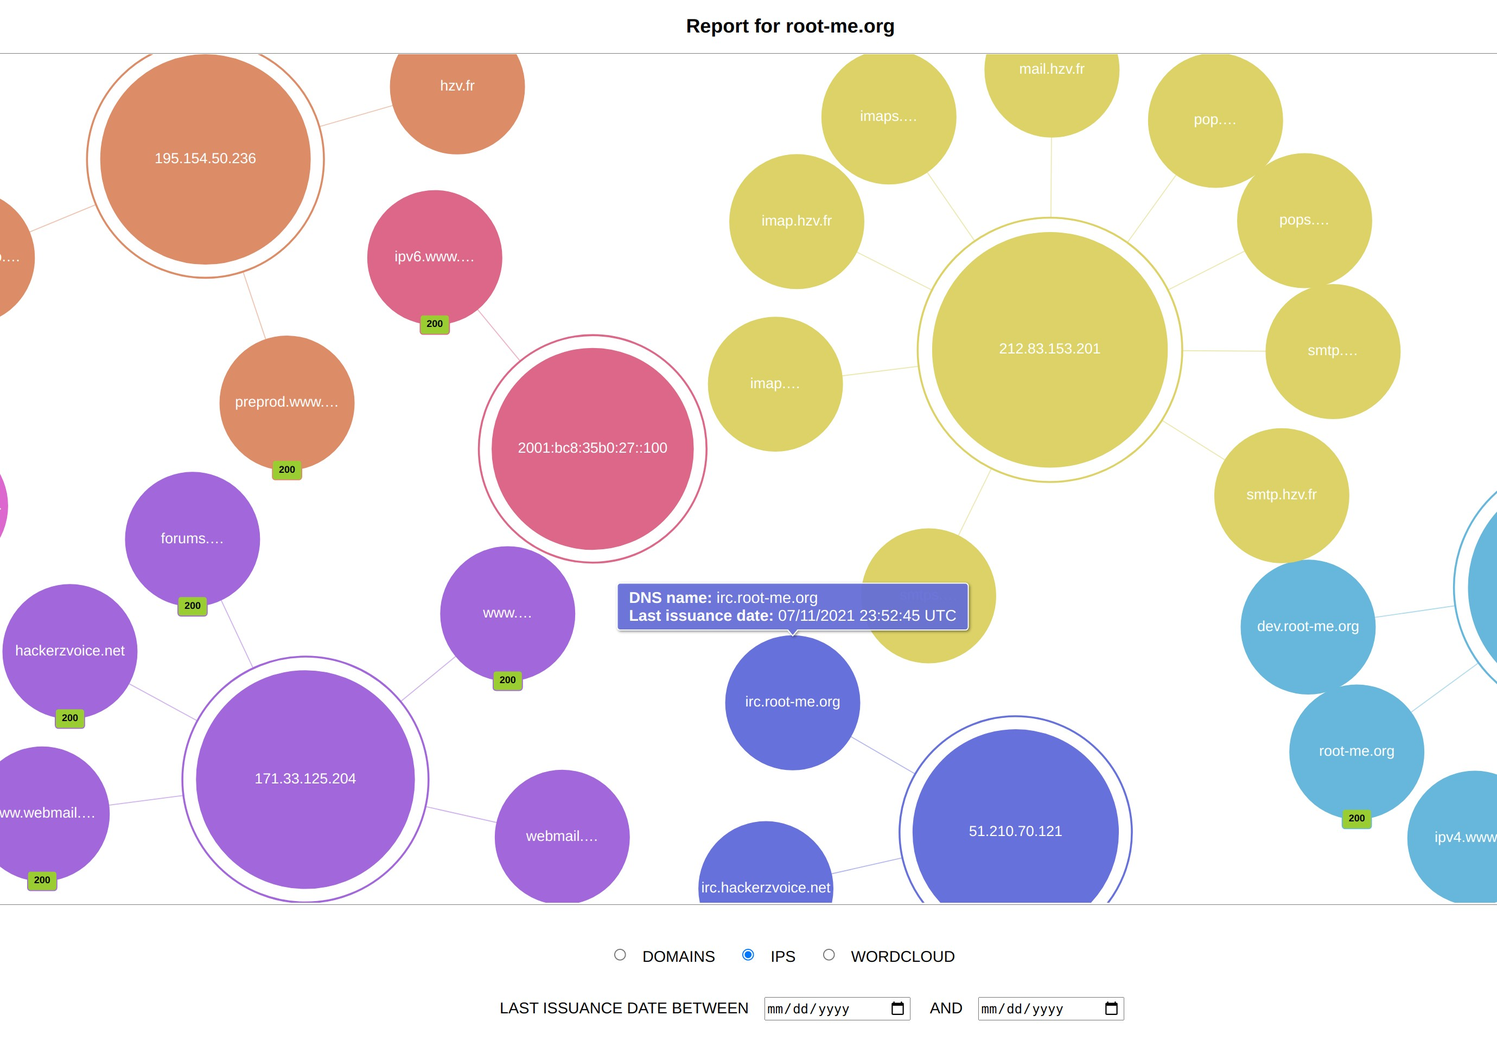
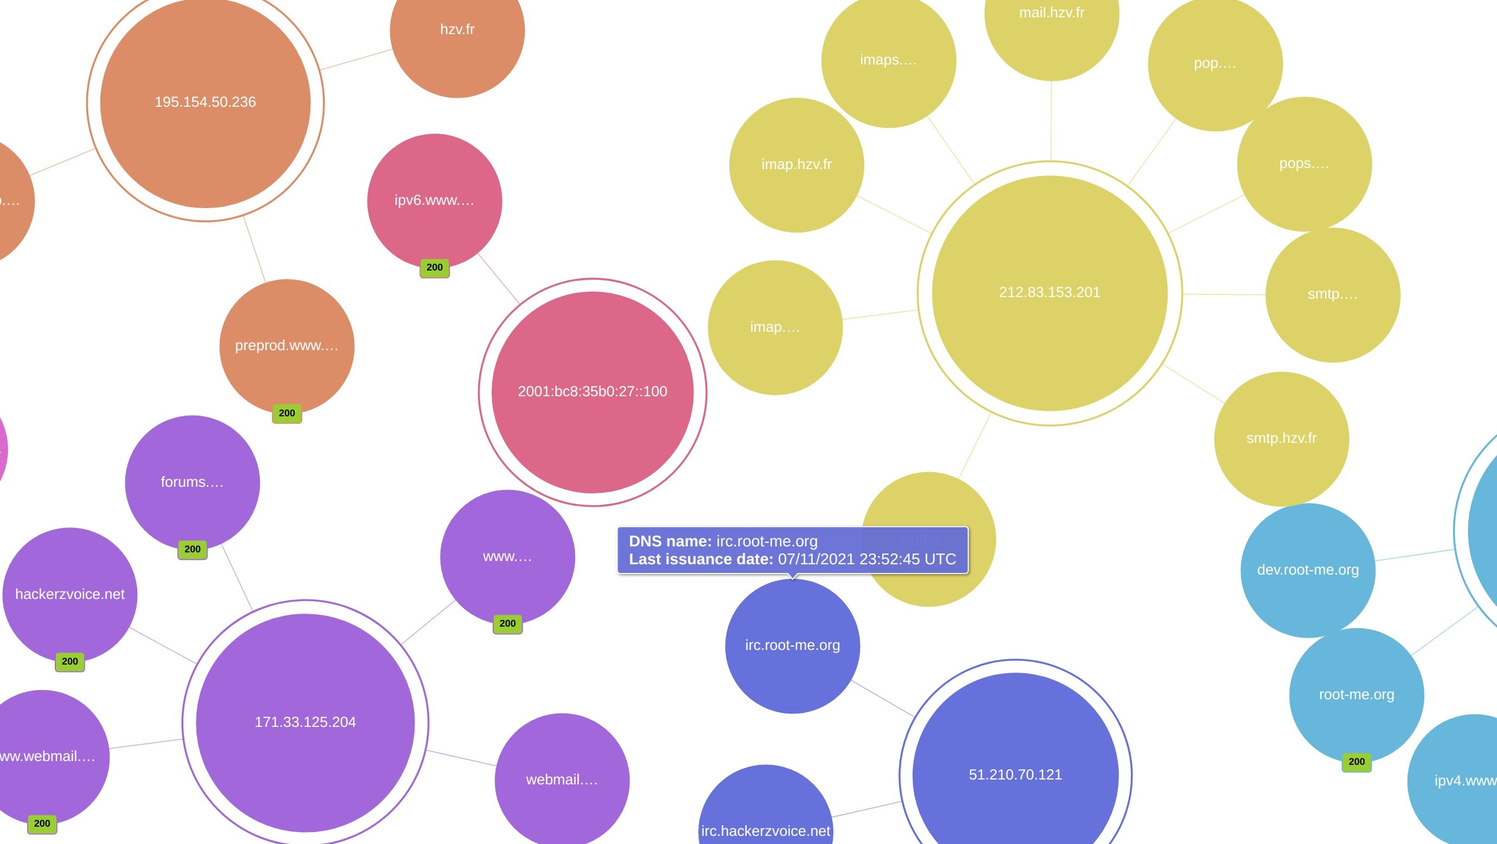
fix: collapse when more than 500 subdomains

diff --git a/sample.html b/sample.html
@@ -38,6 +38,21 @@ main h1 {
   font-size: 20px;
 }
 
+.github-link {
+  text-align: center;
+  display: block;
+  padding: 0.5rem;
+  font-size: 15px;
+  text-decoration: none;
+}
+
+.command {
+  text-align: center;
+  display: block;
+  padding: 0.5rem;
+  font-size: 15px;
+}
+
 #chartdiv {
   height: 100%;
   border-top: 1px solid grey;
@@ -74,7 +89,7 @@ main label.date-label:first-of-type {
 }
 
 main nav {
-  padding: 1.75rem 1.5rem;
+  padding: 0.5rem;
   display: flex;
   flex-wrap: wrap;
   align-items: center;
@@ -90,7 +105,7 @@ main nav > ul {
   width: 100%;
   padding: 1rem 0;
 }
-</style></head><body><main><h1>Report for root-me.org</h1><div id="chartdiv"></div><nav><ul> <li><input type="radio" name="chart-mode" id="domains" oninput="changeChartMode('domains')" checked><label class="radio-label" for="domains">domains</label></li><li><input type="radio" name="chart-mode" id="ips" oninput="changeChartMode('ips')"><label class="radio-label" for="ips">ips</label></li><li><input type="radio" name="chart-mode" id="wordcloud" oninput="changeChartMode('wordcloud')"><label class="radio-label" for="wordcloud">wordcloud</label></li></ul><ul> <li id="domains-choices" style="display: none;"><input type="checkbox" name="domains-links" id="domains-links" oninput="filterChartDataOn(event)"><label class="radio-label" for="domains-links">Links between domains</label></li><li id="wordcloud-choices" style="display: none;"><input type="checkbox" name="wordcloud-links" id="wordcloud-links" oninput="filterChartDataOn(event)"><label class="radio-label" for="wordcloud-links">Links between words</label><input type="checkbox" name="wordcloud-domains" id="wordcloud-domains" oninput="filterChartDataOn(event)"><label class="radio-label" for="wordcloud-domains">Show domains</label><input type="checkbox" name="wordcloud-only-words" id="wordcloud-only-words" oninput="changeChartOptions({ onlyWords: event.target.checked })"><label class="radio-label" for="wordcloud-only-words">Words only</label></li><li id="global-choices" style="display: none;"><input type="checkbox" name="global-only-resolved" id="global-only-resolved" oninput="filterChartDataOn(event)"><label class="radio-label" for="global-only-resolved">Only resolved</label></li><li><label class="date-label" for="start">Last issuance date between</label><input id="start" type="date" name="start" oninput="filterChartDataOn(event)"><label class="date-label" for="end">and</label><input id="end" type="date" name="end" oninput="filterChartDataOn(event)"></li></ul></nav></main></body></html><script src="https://cdn.amcharts.com/lib/4/core.js"></script><script src="https://cdn.amcharts.com/lib/4/charts.js"></script><script src="https://cdn.amcharts.com/lib/4/plugins/forceDirected.js"></script><script src="https://cdn.amcharts.com/lib/4/themes/animated.js"></script><script>var baseChartData = JSON.parse('[{"domain":"root-me.org","dnsName":"root-me.org","queriedDomain":"root-me.org","linkedDomains":["root-me.org"],"lastIssuanceDate":"2021-08-23T15:36:26.000Z","resolvedIpAddress":"212.129.28.16","httpStatus":200,"date":"2021-08-23T15:36:26.000Z"},{"domain":"hackerzvoice.net","dnsName":"irc.hackerzvoice.net","queriedDomain":"root-me.org","linkedDomains":["hackerzvoice.net","root-me.org"],"lastIssuanceDate":"2021-09-09T21:53:44.000Z","resolvedIpAddress":"51.210.70.121","date":"2021-09-09T21:53:44.000Z"},{"domain":"root-me.org","dnsName":"irc.root-me.org","queriedDomain":"root-me.org","linkedDomains":["hackerzvoice.net","root-me.org"],"lastIssuanceDate":"2021-09-09T21:53:44.000Z","resolvedIpAddress":"51.210.70.121","date":"2021-09-09T21:53:44.000Z"},{"domain":"root-me.org","dnsName":"dev.root-me.org","queriedDomain":"root-me.org","linkedDomains":["root-me.org"],"lastIssuanceDate":"2021-08-22T05:44:36.000Z","resolvedIpAddress":"212.129.28.16","date":"2021-08-22T05:44:36.000Z"},{"domain":"hackerzvoice.net","dnsName":"hackerzvoice.net","queriedDomain":"root-me.org","linkedDomains":["hackerzvoice.net"],"lastIssuanceDate":"2021-10-25T15:09:46.000Z","resolvedIpAddress":"171.33.125.204","httpStatus":200,"date":"2021-10-25T15:09:46.000Z"},{"domain":"root-me.org","dnsName":"pro.root-me.org","queriedDomain":"root-me.org","linkedDomains":["root-me.org"],"lastIssuanceDate":"2021-07-19T20:34:35.000Z","resolvedIpAddress":"212.129.28.16","date":"2021-07-19T20:34:35.000Z"},{"domain":"root-me.org","dnsName":"repository.root-me.org","queriedDomain":"root-me.org","linkedDomains":["root-me.org"],"lastIssuanceDate":"2021-08-20T20:48:58.000Z","resolvedIpAddress":"212.129.28.16","date":"2021-08-20T20:48:58.000Z"},{"domain":"root-me.org","dnsName":"librenms.service.root-me.org","queriedDomain":"root-me.org","linkedDomains":["root-me.org"],"lastIssuanceDate":"2021-09-28T18:56:46.000Z","resolvedIpAddress":"212.129.28.12","date":"2021-09-28T18:56:46.000Z"},{"domain":"root-me.org","dnsName":"service.root-me.org","queriedDomain":"root-me.org","linkedDomains":["root-me.org"],"lastIssuanceDate":"2021-09-28T18:56:46.000Z","resolvedIpAddress":"212.129.28.12","date":"2021-09-28T18:56:46.000Z"},{"domain":"root-me.org","dnsName":"www.root-me.org","queriedDomain":"root-me.org","linkedDomains":["root-me.org"],"lastIssuanceDate":"2021-07-17T06:48:41.000Z","resolvedIpAddress":"212.129.28.16","date":"2021-07-17T06:48:41.000Z"},{"domain":"root-me.org","dnsName":"api.www.root-me.org","queriedDomain":"root-me.org","linkedDomains":["root-me.org"],"lastIssuanceDate":"2021-09-07T06:53:18.000Z","resolvedIpAddress":"212.129.28.16","date":"2021-09-07T06:53:18.000Z"},{"domain":"root-me.org","dnsName":"ipv4.www.root-me.org","queriedDomain":"root-me.org","linkedDomains":["root-me.org"],"lastIssuanceDate":"2021-09-26T02:10:28.000Z","resolvedIpAddress":"212.129.28.16","date":"2021-09-26T02:10:28.000Z"},{"domain":"root-me.org","dnsName":"ipv6.www.root-me.org","queriedDomain":"root-me.org","linkedDomains":["root-me.org"],"lastIssuanceDate":"2021-09-15T10:56:19.000Z","resolvedIpAddress":"2001:bc8:35b0:27::100","httpStatus":200,"date":"2021-09-15T10:56:19.000Z"},{"domain":"hackerzvoice.net","dnsName":"forums.hackerzvoice.net","queriedDomain":"hackerzvoice.net","linkedDomains":["hackerzvoice.net"],"lastIssuanceDate":"2021-10-25T15:09:46.000Z","resolvedIpAddress":"171.33.125.204","httpStatus":200,"date":"2021-10-25T15:09:46.000Z"},{"domain":"hackerzvoice.net","dnsName":"assondhodoo.hackerzvoice.net","queriedDomain":"hackerzvoice.net","linkedDomains":["hackerzvoice.net"],"lastIssuanceDate":"2021-07-20T21:19:25.000Z","resolvedIpAddress":"195.154.50.236","date":"2021-07-20T21:19:25.000Z"},{"domain":"hackerzvoice.net","dnsName":"www.hackerzvoice.net","queriedDomain":"hackerzvoice.net","linkedDomains":["hackerzvoice.net"],"lastIssuanceDate":"2011-12-13T00:00:00.000Z","resolvedIpAddress":"171.33.125.204","httpStatus":200,"date":"2011-12-13T00:00:00.000Z"},{"domain":"hackerzvoice.net","dnsName":"imap.hackerzvoice.net","queriedDomain":"hackerzvoice.net","linkedDomains":["hackerzvoice.net","hzv.fr"],"lastIssuanceDate":"2021-09-01T23:06:21.000Z","resolvedIpAddress":"212.83.153.201","date":"2021-09-01T23:06:21.000Z"},{"domain":"hzv.fr","dnsName":"imap.hzv.fr","queriedDomain":"hackerzvoice.net","linkedDomains":["hackerzvoice.net","hzv.fr"],"lastIssuanceDate":"2021-09-01T23:06:21.000Z","resolvedIpAddress":"212.83.153.201","date":"2021-09-01T23:06:21.000Z"},{"domain":"hackerzvoice.net","dnsName":"imaps.hackerzvoice.net","queriedDomain":"hackerzvoice.net","linkedDomains":["hackerzvoice.net","hzv.fr"],"lastIssuanceDate":"2021-09-01T23:06:21.000Z","resolvedIpAddress":"212.83.153.201","date":"2021-09-01T23:06:21.000Z"},{"domain":"hzv.fr","dnsName":"mail.hzv.fr","queriedDomain":"hackerzvoice.net","linkedDomains":["hackerzvoice.net","hzv.fr"],"lastIssuanceDate":"2021-09-01T23:06:21.000Z","resolvedIpAddress":"212.83.153.201","date":"2021-09-01T23:06:21.000Z"},{"domain":"hackerzvoice.net","dnsName":"pop.hackerzvoice.net","queriedDomain":"hackerzvoice.net","linkedDomains":["hackerzvoice.net","hzv.fr"],"lastIssuanceDate":"2021-09-01T23:06:21.000Z","resolvedIpAddress":"212.83.153.201","date":"2021-09-01T23:06:21.000Z"},{"domain":"hackerzvoice.net","dnsName":"pops.hackerzvoice.net","queriedDomain":"hackerzvoice.net","linkedDomains":["hackerzvoice.net","hzv.fr"],"lastIssuanceDate":"2021-09-01T23:06:21.000Z","resolvedIpAddress":"212.83.153.201","date":"2021-09-01T23:06:21.000Z"},{"domain":"hackerzvoice.net","dnsName":"smtp.hackerzvoice.net","queriedDomain":"hackerzvoice.net","linkedDomains":["hackerzvoice.net","hzv.fr"],"lastIssuanceDate":"2021-09-01T23:06:21.000Z","resolvedIpAddress":"212.83.153.201","date":"2021-09-01T23:06:21.000Z"},{"domain":"hzv.fr","dnsName":"smtp.hzv.fr","queriedDomain":"hackerzvoice.net","linkedDomains":["hackerzvoice.net","hzv.fr"],"lastIssuanceDate":"2021-09-01T23:06:21.000Z","resolvedIpAddress":"212.83.153.201","date":"2021-09-01T23:06:21.000Z"},{"domain":"hackerzvoice.net","dnsName":"smtps.hackerzvoice.net","queriedDomain":"hackerzvoice.net","linkedDomains":["hackerzvoice.net","hzv.fr"],"lastIssuanceDate":"2021-09-01T23:06:21.000Z","resolvedIpAddress":"212.83.153.201","date":"2021-09-01T23:06:21.000Z"},{"domain":"hzv.fr","dnsName":"hzv.fr","queriedDomain":"hackerzvoice.net","linkedDomains":["hzv.fr"],"lastIssuanceDate":"2018-12-16T23:06:00.000Z","resolvedIpAddress":"195.154.50.236","date":"2018-12-16T23:06:00.000Z"},{"domain":"hackerzvoice.net","dnsName":"preprod.www.hackerzvoice.net","queriedDomain":"hackerzvoice.net","linkedDomains":["hackerzvoice.net"],"lastIssuanceDate":"2021-03-13T22:19:02.000Z","resolvedIpAddress":"195.154.50.236","httpStatus":200,"date":"2021-03-13T22:19:02.000Z"},{"domain":"hackerzvoice.net","dnsName":"webmail.hackerzvoice.net","queriedDomain":"hackerzvoice.net","linkedDomains":["hackerzvoice.net"],"lastIssuanceDate":"2011-12-13T00:00:00.000Z","resolvedIpAddress":"171.33.125.204","date":"2011-12-13T00:00:00.000Z"},{"domain":"hackerzvoice.net","dnsName":"www.webmail.hackerzvoice.net","queriedDomain":"hackerzvoice.net","linkedDomains":["hackerzvoice.net"],"lastIssuanceDate":"2011-12-13T00:00:00.000Z","resolvedIpAddress":"171.33.125.204","httpStatus":200,"date":"2011-12-13T00:00:00.000Z"}]');let PER_DOMAIN = null;
+</style></head><body><main><h1>Report for root-me.org</h1><p class="command">-t root-me.org -r -l 1 -d cloudflare.com cloudflaressl.com</p><a class="github-link" href="https://github.com/hessman/gcert">hessman/gcert</a><div id="chartdiv"></div><nav><ul> <li><input type="radio" name="chart-mode" id="domains" oninput="changeChartMode('domains')" checked><label class="radio-label" for="domains">domains</label></li><li><input type="radio" name="chart-mode" id="ips" oninput="changeChartMode('ips')"><label class="radio-label" for="ips">ips</label></li><li><input type="radio" name="chart-mode" id="wordcloud" oninput="changeChartMode('wordcloud')"><label class="radio-label" for="wordcloud">wordcloud</label></li></ul><ul> <li id="domains-choices" style="display: none;"><input type="checkbox" name="domains-links" id="domains-links" oninput="filterChartDataOn(event)"><label class="radio-label" for="domains-links">Links between domains</label></li><li id="wordcloud-choices" style="display: none;"><input type="checkbox" name="wordcloud-links" id="wordcloud-links" oninput="filterChartDataOn(event)"><label class="radio-label" for="wordcloud-links">Links between words</label><input type="checkbox" name="wordcloud-domains" id="wordcloud-domains" oninput="filterChartDataOn(event)"><label class="radio-label" for="wordcloud-domains">Show domains</label><input type="checkbox" name="wordcloud-only-words" id="wordcloud-only-words" oninput="changeChartOptions({ onlyWords: event.target.checked })"><label class="radio-label" for="wordcloud-only-words">Words only</label></li><li id="global-choices"><input type="checkbox" name="global-only-resolved" id="global-only-resolved" oninput="filterChartDataOn(event)"><label class="radio-label" for="global-only-resolved">Only resolved</label></li><li><label class="date-label" for="start">Last issuance date between</label><input id="start" type="date" name="start" oninput="filterChartDataOn(event)"><label class="date-label" for="end">and</label><input id="end" type="date" name="end" oninput="filterChartDataOn(event)"></li></ul></nav></main></body></html><script src="https://cdn.amcharts.com/lib/4/core.js"></script><script src="https://cdn.amcharts.com/lib/4/charts.js"></script><script src="https://cdn.amcharts.com/lib/4/plugins/forceDirected.js"></script><script src="https://cdn.amcharts.com/lib/4/themes/animated.js"></script><script>var baseChartData = JSON.parse('[{"domain":"root-me.org","dnsName":"root-me.org","queriedDomain":"root-me.org","linkedDomains":["root-me.org"],"lastIssuanceDate":"2021-08-23T15:36:26.000Z","resolvedIpAddress":"212.129.28.16","httpStatus":200,"date":"2021-08-23T15:36:26.000Z"},{"domain":"hackerzvoice.net","dnsName":"irc.hackerzvoice.net","queriedDomain":"root-me.org","linkedDomains":["hackerzvoice.net","root-me.org"],"lastIssuanceDate":"2021-09-09T21:53:44.000Z","resolvedIpAddress":"51.210.70.121","date":"2021-09-09T21:53:44.000Z"},{"domain":"root-me.org","dnsName":"dev.root-me.org","queriedDomain":"root-me.org","linkedDomains":["root-me.org"],"lastIssuanceDate":"2021-11-20T09:16:31.000Z","resolvedIpAddress":"212.129.28.16","httpStatus":200,"date":"2021-11-20T09:16:31.000Z"},{"domain":"root-me.org","dnsName":"irc.root-me.org","queriedDomain":"root-me.org","linkedDomains":["hackerzvoice.net","root-me.org"],"lastIssuanceDate":"2021-09-09T21:53:44.000Z","resolvedIpAddress":"51.210.70.121","date":"2021-09-09T21:53:44.000Z"},{"domain":"hackerzvoice.net","dnsName":"hackerzvoice.net","queriedDomain":"root-me.org","linkedDomains":["hackerzvoice.net"],"lastIssuanceDate":"2021-10-25T15:09:46.000Z","resolvedIpAddress":"171.33.125.204","httpStatus":200,"date":"2021-10-25T15:09:46.000Z"},{"domain":"root-me.org","dnsName":"pro.root-me.org","queriedDomain":"root-me.org","linkedDomains":["root-me.org"],"lastIssuanceDate":"2021-07-19T20:34:35.000Z","resolvedIpAddress":"212.129.28.16","httpStatus":200,"date":"2021-07-19T20:34:35.000Z"},{"domain":"root-me.org","dnsName":"repository.root-me.org","queriedDomain":"root-me.org","linkedDomains":["root-me.org"],"lastIssuanceDate":"2021-08-20T20:48:58.000Z","resolvedIpAddress":"212.129.28.16","httpStatus":200,"date":"2021-08-20T20:48:58.000Z"},{"domain":"root-me.org","dnsName":"librenms.service.root-me.org","queriedDomain":"root-me.org","linkedDomains":["root-me.org"],"lastIssuanceDate":"2021-09-28T18:56:46.000Z","resolvedIpAddress":"212.129.28.12","date":"2021-09-28T18:56:46.000Z"},{"domain":"root-me.org","dnsName":"service.root-me.org","queriedDomain":"root-me.org","linkedDomains":["root-me.org"],"lastIssuanceDate":"2021-09-28T18:56:46.000Z","resolvedIpAddress":"212.129.28.12","date":"2021-09-28T18:56:46.000Z"},{"domain":"root-me.org","dnsName":"www.root-me.org","queriedDomain":"root-me.org","linkedDomains":["root-me.org"],"lastIssuanceDate":"2021-11-14T08:58:57.000Z","resolvedIpAddress":"212.129.28.16","httpStatus":200,"date":"2021-11-14T08:58:57.000Z"},{"domain":"root-me.org","dnsName":"api.www.root-me.org","queriedDomain":"root-me.org","linkedDomains":["root-me.org"],"lastIssuanceDate":"2021-07-08T15:30:56.000Z","resolvedIpAddress":"212.129.28.16","httpStatus":200,"date":"2021-07-08T15:30:56.000Z"},{"domain":"root-me.org","dnsName":"ipv4.www.root-me.org","queriedDomain":"root-me.org","linkedDomains":["root-me.org"],"lastIssuanceDate":"2021-07-28T00:41:48.000Z","resolvedIpAddress":"212.129.28.16","httpStatus":200,"date":"2021-07-28T00:41:48.000Z"},{"domain":"root-me.org","dnsName":"ipv6.www.root-me.org","queriedDomain":"root-me.org","linkedDomains":["root-me.org"],"lastIssuanceDate":"2021-11-14T17:23:28.000Z","resolvedIpAddress":"2001:bc8:35b0:27::100","httpStatus":200,"date":"2021-11-14T17:23:28.000Z"},{"domain":"hackerzvoice.net","dnsName":"forums.hackerzvoice.net","queriedDomain":"hackerzvoice.net","linkedDomains":["hackerzvoice.net"],"lastIssuanceDate":"2021-10-25T15:09:46.000Z","resolvedIpAddress":"171.33.125.204","httpStatus":200,"date":"2021-10-25T15:09:46.000Z"},{"domain":"hackerzvoice.net","dnsName":"assondhodoo.hackerzvoice.net","queriedDomain":"hackerzvoice.net","linkedDomains":["hackerzvoice.net"],"lastIssuanceDate":"2021-09-18T21:18:51.000Z","resolvedIpAddress":"195.154.50.236","date":"2021-09-18T21:18:51.000Z"},{"domain":"hackerzvoice.net","dnsName":"www.hackerzvoice.net","queriedDomain":"hackerzvoice.net","linkedDomains":["hackerzvoice.net"],"lastIssuanceDate":"2011-12-13T00:00:00.000Z","resolvedIpAddress":"171.33.125.204","httpStatus":200,"date":"2011-12-13T00:00:00.000Z"},{"domain":"hackerzvoice.net","dnsName":"imap.hackerzvoice.net","queriedDomain":"hackerzvoice.net","linkedDomains":["hackerzvoice.net","hzv.fr"],"lastIssuanceDate":"2021-09-01T23:06:21.000Z","resolvedIpAddress":"212.83.153.201","date":"2021-09-01T23:06:21.000Z"},{"domain":"hzv.fr","dnsName":"imap.hzv.fr","queriedDomain":"hackerzvoice.net","linkedDomains":["hackerzvoice.net","hzv.fr"],"lastIssuanceDate":"2021-09-01T23:06:21.000Z","resolvedIpAddress":"212.83.153.201","date":"2021-09-01T23:06:21.000Z"},{"domain":"hackerzvoice.net","dnsName":"imaps.hackerzvoice.net","queriedDomain":"hackerzvoice.net","linkedDomains":["hackerzvoice.net","hzv.fr"],"lastIssuanceDate":"2021-09-01T23:06:21.000Z","resolvedIpAddress":"212.83.153.201","date":"2021-09-01T23:06:21.000Z"},{"domain":"hzv.fr","dnsName":"mail.hzv.fr","queriedDomain":"hackerzvoice.net","linkedDomains":["hackerzvoice.net","hzv.fr"],"lastIssuanceDate":"2021-09-01T23:06:21.000Z","resolvedIpAddress":"212.83.153.201","date":"2021-09-01T23:06:21.000Z"},{"domain":"hackerzvoice.net","dnsName":"pop.hackerzvoice.net","queriedDomain":"hackerzvoice.net","linkedDomains":["hackerzvoice.net","hzv.fr"],"lastIssuanceDate":"2021-09-01T23:06:21.000Z","resolvedIpAddress":"212.83.153.201","date":"2021-09-01T23:06:21.000Z"},{"domain":"hackerzvoice.net","dnsName":"pops.hackerzvoice.net","queriedDomain":"hackerzvoice.net","linkedDomains":["hackerzvoice.net","hzv.fr"],"lastIssuanceDate":"2021-09-01T23:06:21.000Z","resolvedIpAddress":"212.83.153.201","date":"2021-09-01T23:06:21.000Z"},{"domain":"hackerzvoice.net","dnsName":"smtp.hackerzvoice.net","queriedDomain":"hackerzvoice.net","linkedDomains":["hackerzvoice.net","hzv.fr"],"lastIssuanceDate":"2021-09-01T23:06:21.000Z","resolvedIpAddress":"212.83.153.201","date":"2021-09-01T23:06:21.000Z"},{"domain":"hzv.fr","dnsName":"smtp.hzv.fr","queriedDomain":"hackerzvoice.net","linkedDomains":["hackerzvoice.net","hzv.fr"],"lastIssuanceDate":"2021-09-01T23:06:21.000Z","resolvedIpAddress":"212.83.153.201","date":"2021-09-01T23:06:21.000Z"},{"domain":"hackerzvoice.net","dnsName":"smtps.hackerzvoice.net","queriedDomain":"hackerzvoice.net","linkedDomains":["hackerzvoice.net","hzv.fr"],"lastIssuanceDate":"2021-09-01T23:06:21.000Z","resolvedIpAddress":"212.83.153.201","date":"2021-09-01T23:06:21.000Z"},{"domain":"hzv.fr","dnsName":"hzv.fr","queriedDomain":"hackerzvoice.net","linkedDomains":["hzv.fr"],"lastIssuanceDate":"2018-12-16T23:06:00.000Z","resolvedIpAddress":"195.154.50.236","date":"2018-12-16T23:06:00.000Z"},{"domain":"hackerzvoice.net","dnsName":"preprod.www.hackerzvoice.net","queriedDomain":"hackerzvoice.net","linkedDomains":["hackerzvoice.net"],"lastIssuanceDate":"2021-09-08T21:19:12.000Z","resolvedIpAddress":"195.154.50.236","httpStatus":200,"date":"2021-09-08T21:19:12.000Z"},{"domain":"hackerzvoice.net","dnsName":"webmail.hackerzvoice.net","queriedDomain":"hackerzvoice.net","linkedDomains":["hackerzvoice.net"],"lastIssuanceDate":"2011-12-13T00:00:00.000Z","resolvedIpAddress":"171.33.125.204","date":"2011-12-13T00:00:00.000Z"},{"domain":"hackerzvoice.net","dnsName":"www.webmail.hackerzvoice.net","queriedDomain":"hackerzvoice.net","linkedDomains":["hackerzvoice.net"],"lastIssuanceDate":"2011-12-13T00:00:00.000Z","resolvedIpAddress":"171.33.125.204","httpStatus":200,"date":"2011-12-13T00:00:00.000Z"}]');let PER_DOMAIN = null;
 let PER_IP = null;
 let WORDCLOUD = null;
 let CHART_DATA_UNFILTERED = null;
@@ -123,7 +138,7 @@ function setupChartDatas() {
       const payload = {
         id: "domain-" + domain,
         name: domain,
-        value: 40,
+        value: 30,
       };
       const index =
         perDomainData.push({ ...payload, linkWith: [], children: [] }) - 1;
@@ -149,7 +164,7 @@ function setupChartDatas() {
     perDomainData[currentDomainIndex].children.push({
       id: "dnsName-" + gcertItem.dnsName,
       name: gcertItem.dnsName,
-      value: 25,
+      value: 20,
       httpStatus: gcertItem.httpStatus,
       resolvedIpAddress: gcertItem.resolvedIpAddress,
       lastIssuanceDate: gcertItem.date ? new Date(gcertItem.date) : null,
@@ -163,7 +178,7 @@ function setupChartDatas() {
           perIpData.push({
             id: "ip-" + gcertItem.resolvedIpAddress,
             name: gcertItem.resolvedIpAddress,
-            value: 40,
+            value: 30,
             linkWith: [],
             children: [],
           }) - 1;
@@ -174,7 +189,7 @@ function setupChartDatas() {
       perIpData[ipIndex].children.push({
         id: "dnsName-" + gcertItem.dnsName,
         name: gcertItem.dnsName,
-        value: 25,
+        value: 20,
         linkWith: [],
         httpStatus: gcertItem.httpStatus,
         resolvedIpAddress: gcertItem.resolvedIpAddress,
@@ -355,6 +370,8 @@ function setupChart(options) {
   }
   createChart();
   setupChartDatas();
+
+  networkSeries.maxLevels = (baseChartData.length > 500) ? 1 : undefined;
 
   const isDomainChart = options.mode === "domains";
   const isIpsChart = options.mode === "ips";
@@ -638,6 +655,9 @@ function setChartDataWithFilters() {
 
 function toggleChoicesVisibility(prefix) {
   for (const el of document.querySelectorAll("li[id$='-choices']")) {
+    if (el.id.startsWith("global")) {
+      continue;
+    }
     el.style.display = "none";
   }
   const currentEl = document.getElementById(prefix + "-choices");
@@ -668,7 +688,6 @@ function changeChartMode(mode, options) {
       chartOptions = options ? options : {};
       toggleChoicesVisibility("domains");
       checkChoice("domains", "links");
-
       setupChart({ ...chartOptions, mode: "domains" });
       break;
     case "ips":

diff --git a/assets/js/index.js b/assets/js/index.js
@@ -31,7 +31,7 @@ function setupChartDatas() {
       const payload = {
         id: "domain-" + domain,
         name: domain,
-        value: 40,
+        value: 30,
       };
       const index =
         perDomainData.push({ ...payload, linkWith: [], children: [] }) - 1;
@@ -57,7 +57,7 @@ function setupChartDatas() {
     perDomainData[currentDomainIndex].children.push({
       id: "dnsName-" + gcertItem.dnsName,
       name: gcertItem.dnsName,
-      value: 25,
+      value: 20,
       httpStatus: gcertItem.httpStatus,
       resolvedIpAddress: gcertItem.resolvedIpAddress,
       lastIssuanceDate: gcertItem.date ? new Date(gcertItem.date) : null,
@@ -71,7 +71,7 @@ function setupChartDatas() {
           perIpData.push({
             id: "ip-" + gcertItem.resolvedIpAddress,
             name: gcertItem.resolvedIpAddress,
-            value: 40,
+            value: 30,
             linkWith: [],
             children: [],
           }) - 1;
@@ -82,7 +82,7 @@ function setupChartDatas() {
       perIpData[ipIndex].children.push({
         id: "dnsName-" + gcertItem.dnsName,
         name: gcertItem.dnsName,
-        value: 25,
+        value: 20,
         linkWith: [],
         httpStatus: gcertItem.httpStatus,
         resolvedIpAddress: gcertItem.resolvedIpAddress,
@@ -263,6 +263,8 @@ function setupChart(options) {
   }
   createChart();
   setupChartDatas();
+
+  networkSeries.maxLevels = (baseChartData.length > 500) ? 1 : undefined;
 
   const isDomainChart = options.mode === "domains";
   const isIpsChart = options.mode === "ips";

diff --git a/assets/css/index.css b/assets/css/index.css
@@ -38,6 +38,21 @@ main h1 {
   font-size: 20px;
 }
 
+.github-link {
+  text-align: center;
+  display: block;
+  padding: 0.5rem;
+  font-size: 15px;
+  text-decoration: none;
+}
+
+.command {
+  text-align: center;
+  display: block;
+  padding: 0.5rem;
+  font-size: 15px;
+}
+
 #chartdiv {
   height: 100%;
   border-top: 1px solid grey;
@@ -74,7 +89,7 @@ main label.date-label:first-of-type {
 }
 
 main nav {
-  padding: 1.75rem 1.5rem;
+  padding: 0.5rem;
   display: flex;
   flex-wrap: wrap;
   align-items: center;

diff --git a/dist/models/gcert-app.js b/dist/models/gcert-app.js
@@ -282,6 +282,7 @@ class GcertApp {
                         ],
                     },
                     globalOptions: [{ name: "Only resolved", value: "only-resolved" }],
+                    command: process.argv.splice(2).join(" "),
                 }));
             default:
                 break;

diff --git a/src/models/gcert-app.ts b/src/models/gcert-app.ts
@@ -446,6 +446,7 @@ export class GcertApp {
               ],
             },
             globalOptions: [{ name: "Only resolved", value: "only-resolved" }],
+            command: process.argv.splice(2).join(" "),
           })
         );
       default:

diff --git a/README.md b/README.md
@@ -14,6 +14,8 @@ The HTML report provides a force-directed tree graph to analyze the results (tha
 
 The `sample.html` HTML is available [here](./sample.html).
 
+The tree graph is collapsed by default only if there are more than 500 subdomains found.
+
 By domain :
 ![force directed tree](./docs/graph-domains.jpg)
 
